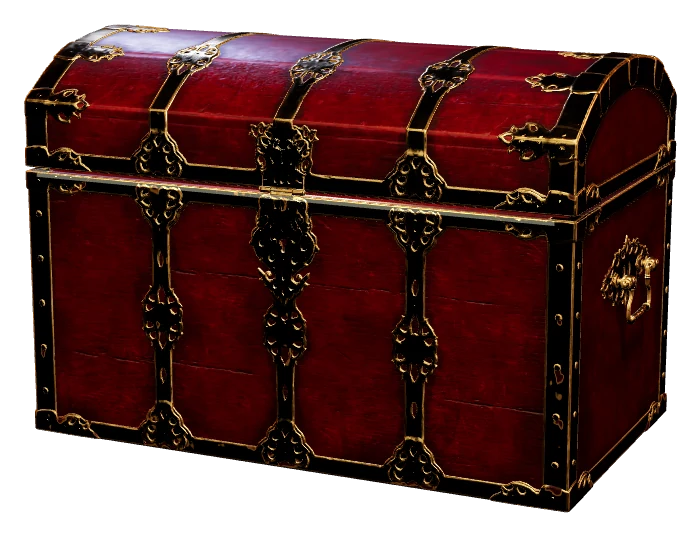
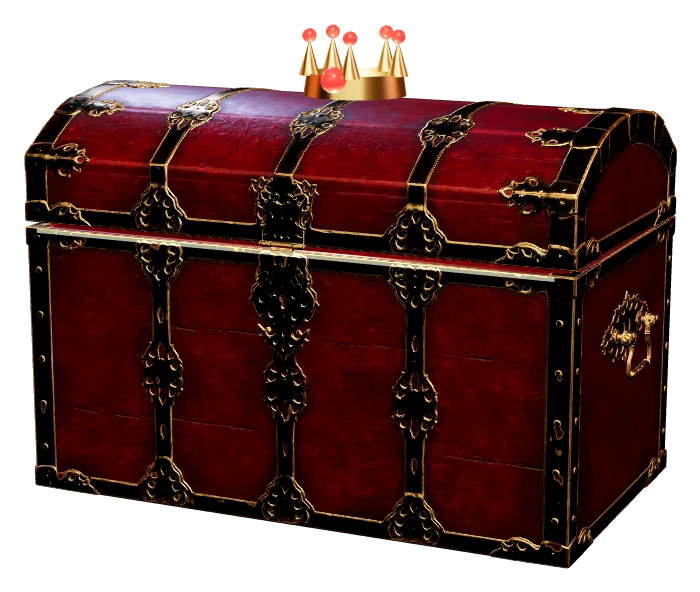
Give chest tiers physical ornaments: crown, silk tassel, iron spikes

diff --git a/src/components/chest3d/ChestModel.tsx b/src/components/chest3d/ChestModel.tsx
@@ -92,7 +92,72 @@ function rig(scene: THREE.Object3D, theme: ChestTheme) {
     hinge.add(lidObj)
   }
   const lockObj = lock as THREE.Mesh | null
+  const ornament = buildOrnament(theme)
+  if (ornament) hinge.add(ornament)
   return { clone, hinge, lock: lockObj, lockBase: lockObj ? lockObj.position.clone() : new THREE.Vector3(), lockMat }
+}
+
+/**
+ * Tier ornaments, in hinge-local space (origin on the hinge line; the lid's crown sits
+ * around y 0.2, z 0.26; its front edge around z 0.52).
+ */
+function buildOrnament(theme: ChestTheme): THREE.Object3D | null {
+  if (!theme.ornament) return null
+  const g = new THREE.Group()
+  const metal = new THREE.MeshStandardMaterial({ color: theme.metal, metalness: 1, roughness: 0.32 })
+  if (theme.ornament === 'crown') {
+    g.position.set(0, 0.196, 0.26)
+    g.scale.setScalar(1.25)
+    const band = new THREE.Mesh(new THREE.CylinderGeometry(0.075, 0.08, 0.035, 28, 1, true), metal)
+    band.material = metal.clone()
+    ;(band.material as THREE.MeshStandardMaterial).side = THREE.DoubleSide
+    band.position.y = 0.018
+    g.add(band)
+    const jewel = new THREE.MeshStandardMaterial({ color: '#c3122a', emissive: '#ff2a3a', emissiveIntensity: 0.9, metalness: 0.2, roughness: 0.15 })
+    for (let i = 0; i < 5; i++) {
+      const a = (i / 5) * Math.PI * 2
+      const spike = new THREE.Mesh(new THREE.ConeGeometry(0.016, 0.055, 10), metal)
+      spike.position.set(Math.cos(a) * 0.072, 0.06, Math.sin(a) * 0.072)
+      g.add(spike)
+      const gem = new THREE.Mesh(new THREE.SphereGeometry(0.011, 12, 10), jewel)
+      gem.position.set(Math.cos(a) * 0.072, 0.093, Math.sin(a) * 0.072)
+      g.add(gem)
+    }
+    const center = new THREE.Mesh(new THREE.SphereGeometry(0.02, 16, 12), jewel)
+    center.position.set(0, 0.03, 0.08)
+    g.add(center)
+  } else if (theme.ornament === 'tassel') {
+    // A vermilion silk knot and tassel tied at the front of the lid.
+    g.position.set(0, 0.035, 0.528)
+    const silk = new THREE.MeshStandardMaterial({ color: '#c8281e', roughness: 0.75, metalness: 0 })
+    const knot = new THREE.Mesh(new THREE.TorusKnotGeometry(0.018, 0.007, 48, 8, 2, 3), silk)
+    g.add(knot)
+    const cap = new THREE.Mesh(new THREE.CylinderGeometry(0.012, 0.014, 0.016, 16), metal)
+    cap.position.y = -0.03
+    g.add(cap)
+    const tassel = new THREE.Mesh(new THREE.ConeGeometry(0.022, 0.1, 18, 1, true), silk)
+    tassel.material = silk.clone()
+    ;(tassel.material as THREE.MeshStandardMaterial).side = THREE.DoubleSide
+    tassel.rotation.x = Math.PI
+    tassel.position.y = -0.085
+    g.add(tassel)
+  } else if (theme.ornament === 'spikes') {
+    // Iron studs along the crown of the lid.
+    const iron = new THREE.MeshStandardMaterial({ color: '#2a2622', metalness: 0.9, roughness: 0.45 })
+    for (const x of [-0.33, -0.11, 0.11, 0.33]) {
+      const base = new THREE.Mesh(new THREE.CylinderGeometry(0.024, 0.028, 0.012, 14), metal)
+      base.position.set(x, 0.198, 0.26)
+      g.add(base)
+      const spike = new THREE.Mesh(new THREE.ConeGeometry(0.018, 0.06, 12), iron)
+      spike.position.set(x, 0.232, 0.26)
+      g.add(spike)
+    }
+  }
+  g.traverse((o) => {
+    const mesh = o as THREE.Mesh
+    if (mesh.isMesh) mesh.castShadow = true
+  })
+  return g
 }
 
 export function ChestModel({ theme, anim }: Props) {

diff --git a/src/config/chests.ts b/src/config/chests.ts
@@ -44,7 +44,7 @@ export const CHESTS: Chest[] = [
     tagline: 'Sword guards, tantō, katana and kabuto from Japan. 500 boxes only.',
     price: 250,
     buyback: 0.9,
-    theme: { wood: '#5a1c16', woodSat: 0.6, woodGain: 0.6, woodRough: 0.3, metal: '#f0c066', metalness: 1, roughness: 0.42, glow: '#ff6a3d' },
+    theme: { wood: '#5a1c16', woodSat: 0.6, woodGain: 0.6, woodRough: 0.3, metal: '#f0c066', metalness: 1, roughness: 0.42, glow: '#ff6a3d', ornament: 'tassel' },
     limited: { total: 500, remaining: 137, endsInHours: 41 },
     filter: (item) => item.origin.toLowerCase().includes('japan'),
     bands: [
@@ -63,7 +63,7 @@ export const CHESTS: Chest[] = [
     tagline: 'Rapiers, sabres, helmets and shields. Every pull is a wall piece.',
     price: 1000,
     buyback: 0.9,
-    theme: { wood: '#4a4038', woodSat: 0.25, woodGain: 0.75, woodRough: 0.85, metal: '#d4924a', metalness: 1, roughness: 0.5, glow: '#ffb347' },
+    theme: { wood: '#4a4038', woodSat: 0.25, woodGain: 0.75, woodRough: 0.85, metal: '#d4924a', metalness: 1, roughness: 0.5, glow: '#ffb347', ornament: 'spikes' },
     bands: [
       B('common', 0.8257, 380, 950),
       B('uncommon', 0.137, 950, 1900),
@@ -80,7 +80,7 @@ export const CHESTS: Chest[] = [
     tagline: 'Armor, helmets and swords fit for a royal armory. Grails up to $1.2M.',
     price: 5000,
     buyback: 0.92,
-    theme: { wood: '#b8323a', woodSat: 1.15, woodGain: 0.95, woodRough: 0.6, metal: '#ffd884', metalness: 1, roughness: 0.32, glow: '#ffe1a3' },
+    theme: { wood: '#b8323a', woodSat: 1.15, woodGain: 0.95, woodRough: 0.6, metal: '#ffd884', metalness: 1, roughness: 0.32, glow: '#ffe1a3', ornament: 'crown' },
     bands: [
       B('common', 0.7764, 1800, 4800),
       B('uncommon', 0.1757, 4800, 9000),

diff --git a/src/types/index.ts b/src/types/index.ts
@@ -48,6 +48,8 @@ export interface ChestTheme {
   roughness: number
   /** Color of the idle light leaking from the seams. */
   glow: string
+  /** Tier ornament fixed to the lid. */
+  ornament?: 'crown' | 'tassel' | 'spikes'
 }
 
 export interface Chest {
